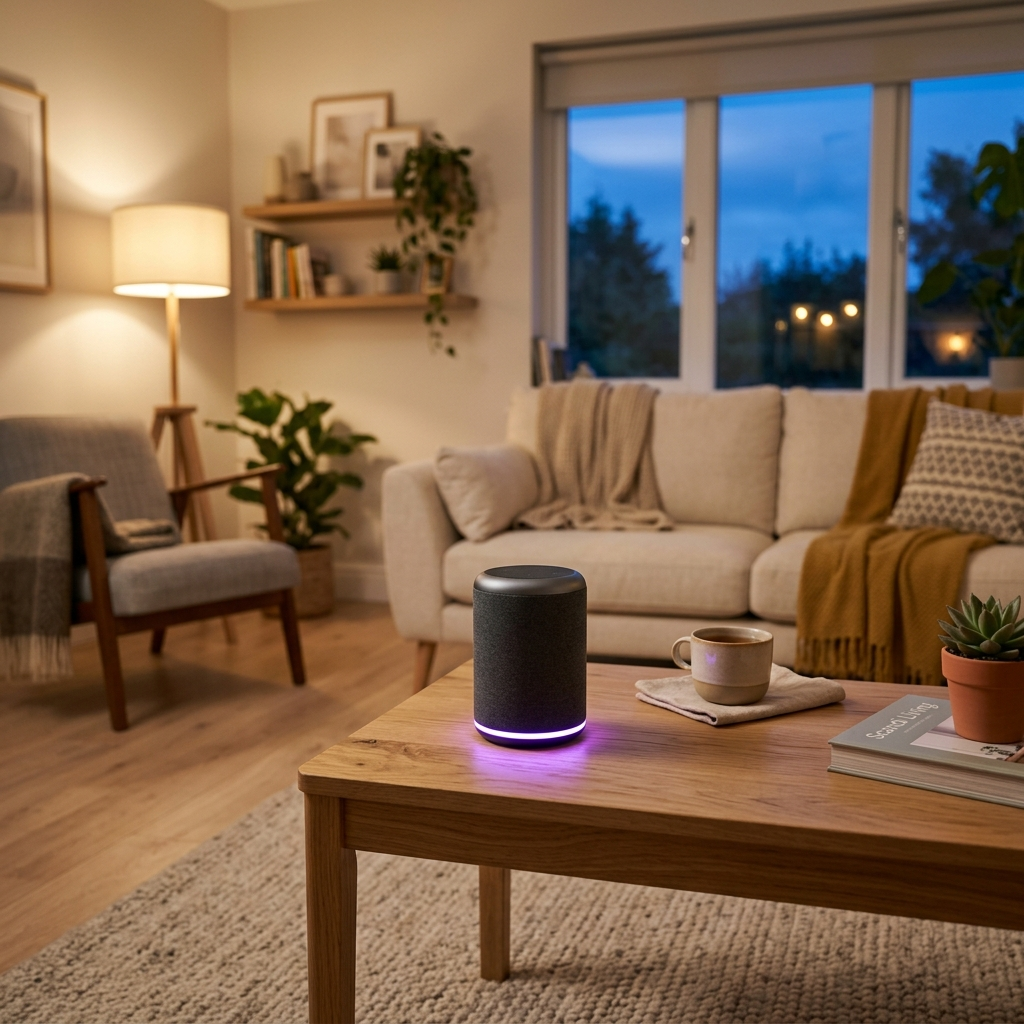
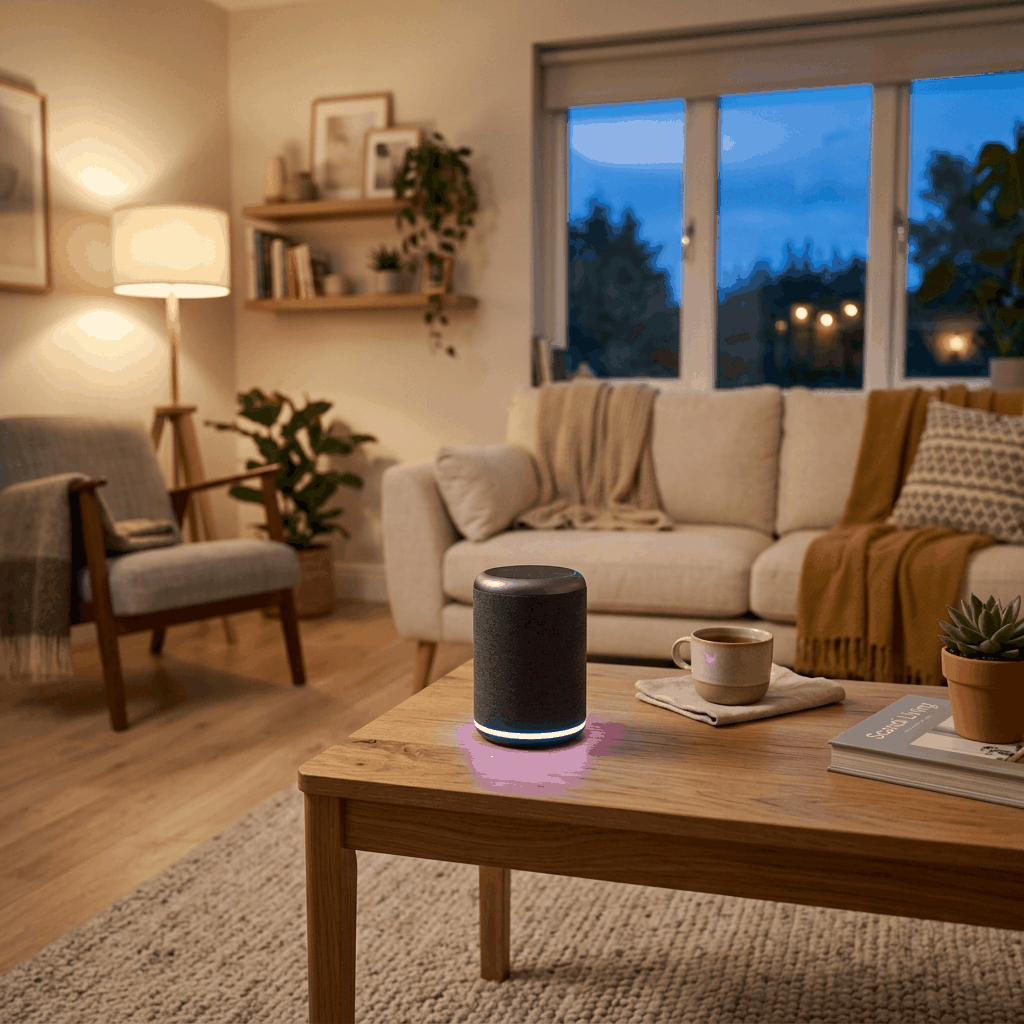
fix: enforce SEO title length limits <= 70 chars in HTML and add test validation

diff --git a/tests/seo.test.js b/tests/seo.test.js
@@ -514,6 +514,33 @@ test("[SEO 2026] HTML: каждая страница имеет ровно 1 <h1
 	});
 });
 
+test("[SEO 2026] HTML: длина тега <title> на всех страницах от 20 до 70 символов", () => {
+	const files = getDistHtmlFiles();
+	if (files.length === 0) return;
+	files.forEach((fp) => {
+		const content = fs.readFileSync(fp, "utf8");
+		const m = content.match(/<title>([\s\S]*?)<\/title>/i);
+		assert.ok(m, `${fp}: отсутствует тег <title>`);
+		const titleText = m[1].trim();
+		const len = titleText.length;
+		assert.ok(len >= 20 && len <= 70, `${fp}: title "${titleText}" ${len} симв. (ожидается 20–70)`);
+	});
+});
+
+test("[SEO 2026] HTML: длина мета-описания на всех страницах от 100 до 170 символов", () => {
+	const files = getDistHtmlFiles();
+	if (files.length === 0) return;
+	files.forEach((fp) => {
+		const content = fs.readFileSync(fp, "utf8");
+		const m = content.match(/<meta\s+name=["']description["']\s+content=["']([^"']+)["']/i) || 
+		          content.match(/<meta\s+content=["']([^"']+)["']\s+name=["']description["']/i);
+		assert.ok(m, `${fp}: отсутствует мета-описание`);
+		const descText = m[1].trim();
+		const len = descText.length;
+		assert.ok(len >= 100 && len <= 170, `${fp}: description "${descText}" ${len} симв. (ожидается 100–170)`);
+	});
+});
+
 test("[SEO 2026] HTML: canonical URL уникален, в нижнем регистре, без ?/#", () => {
 	const files = getDistHtmlFiles();
 	if (files.length === 0) return;